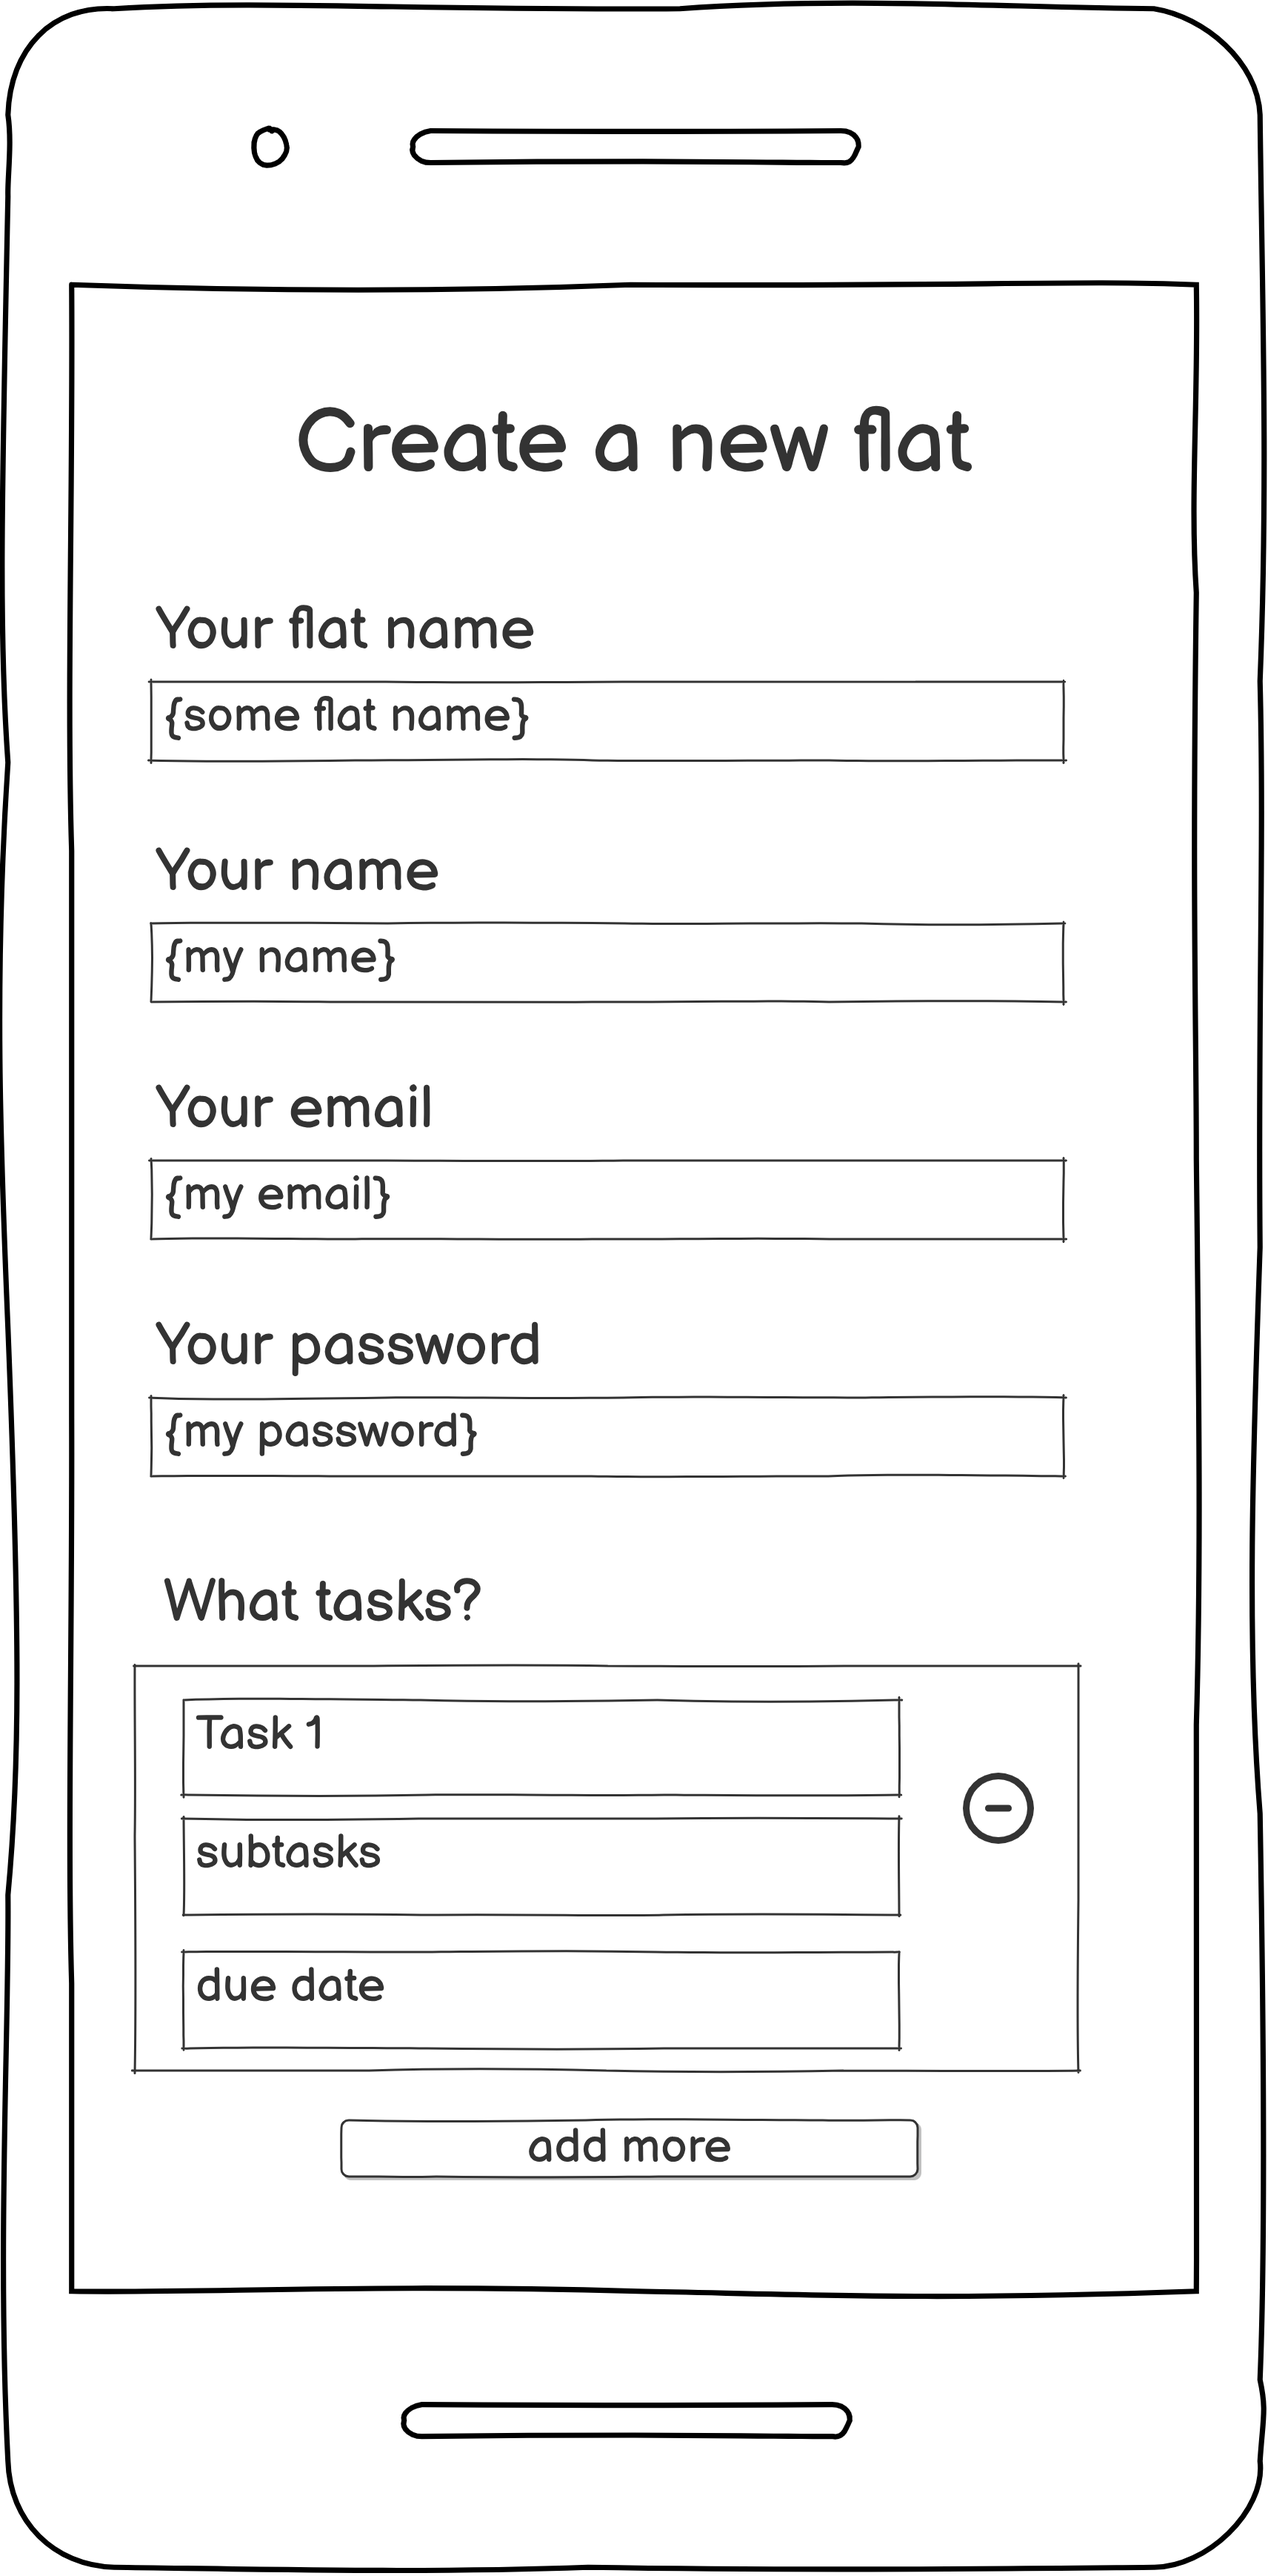
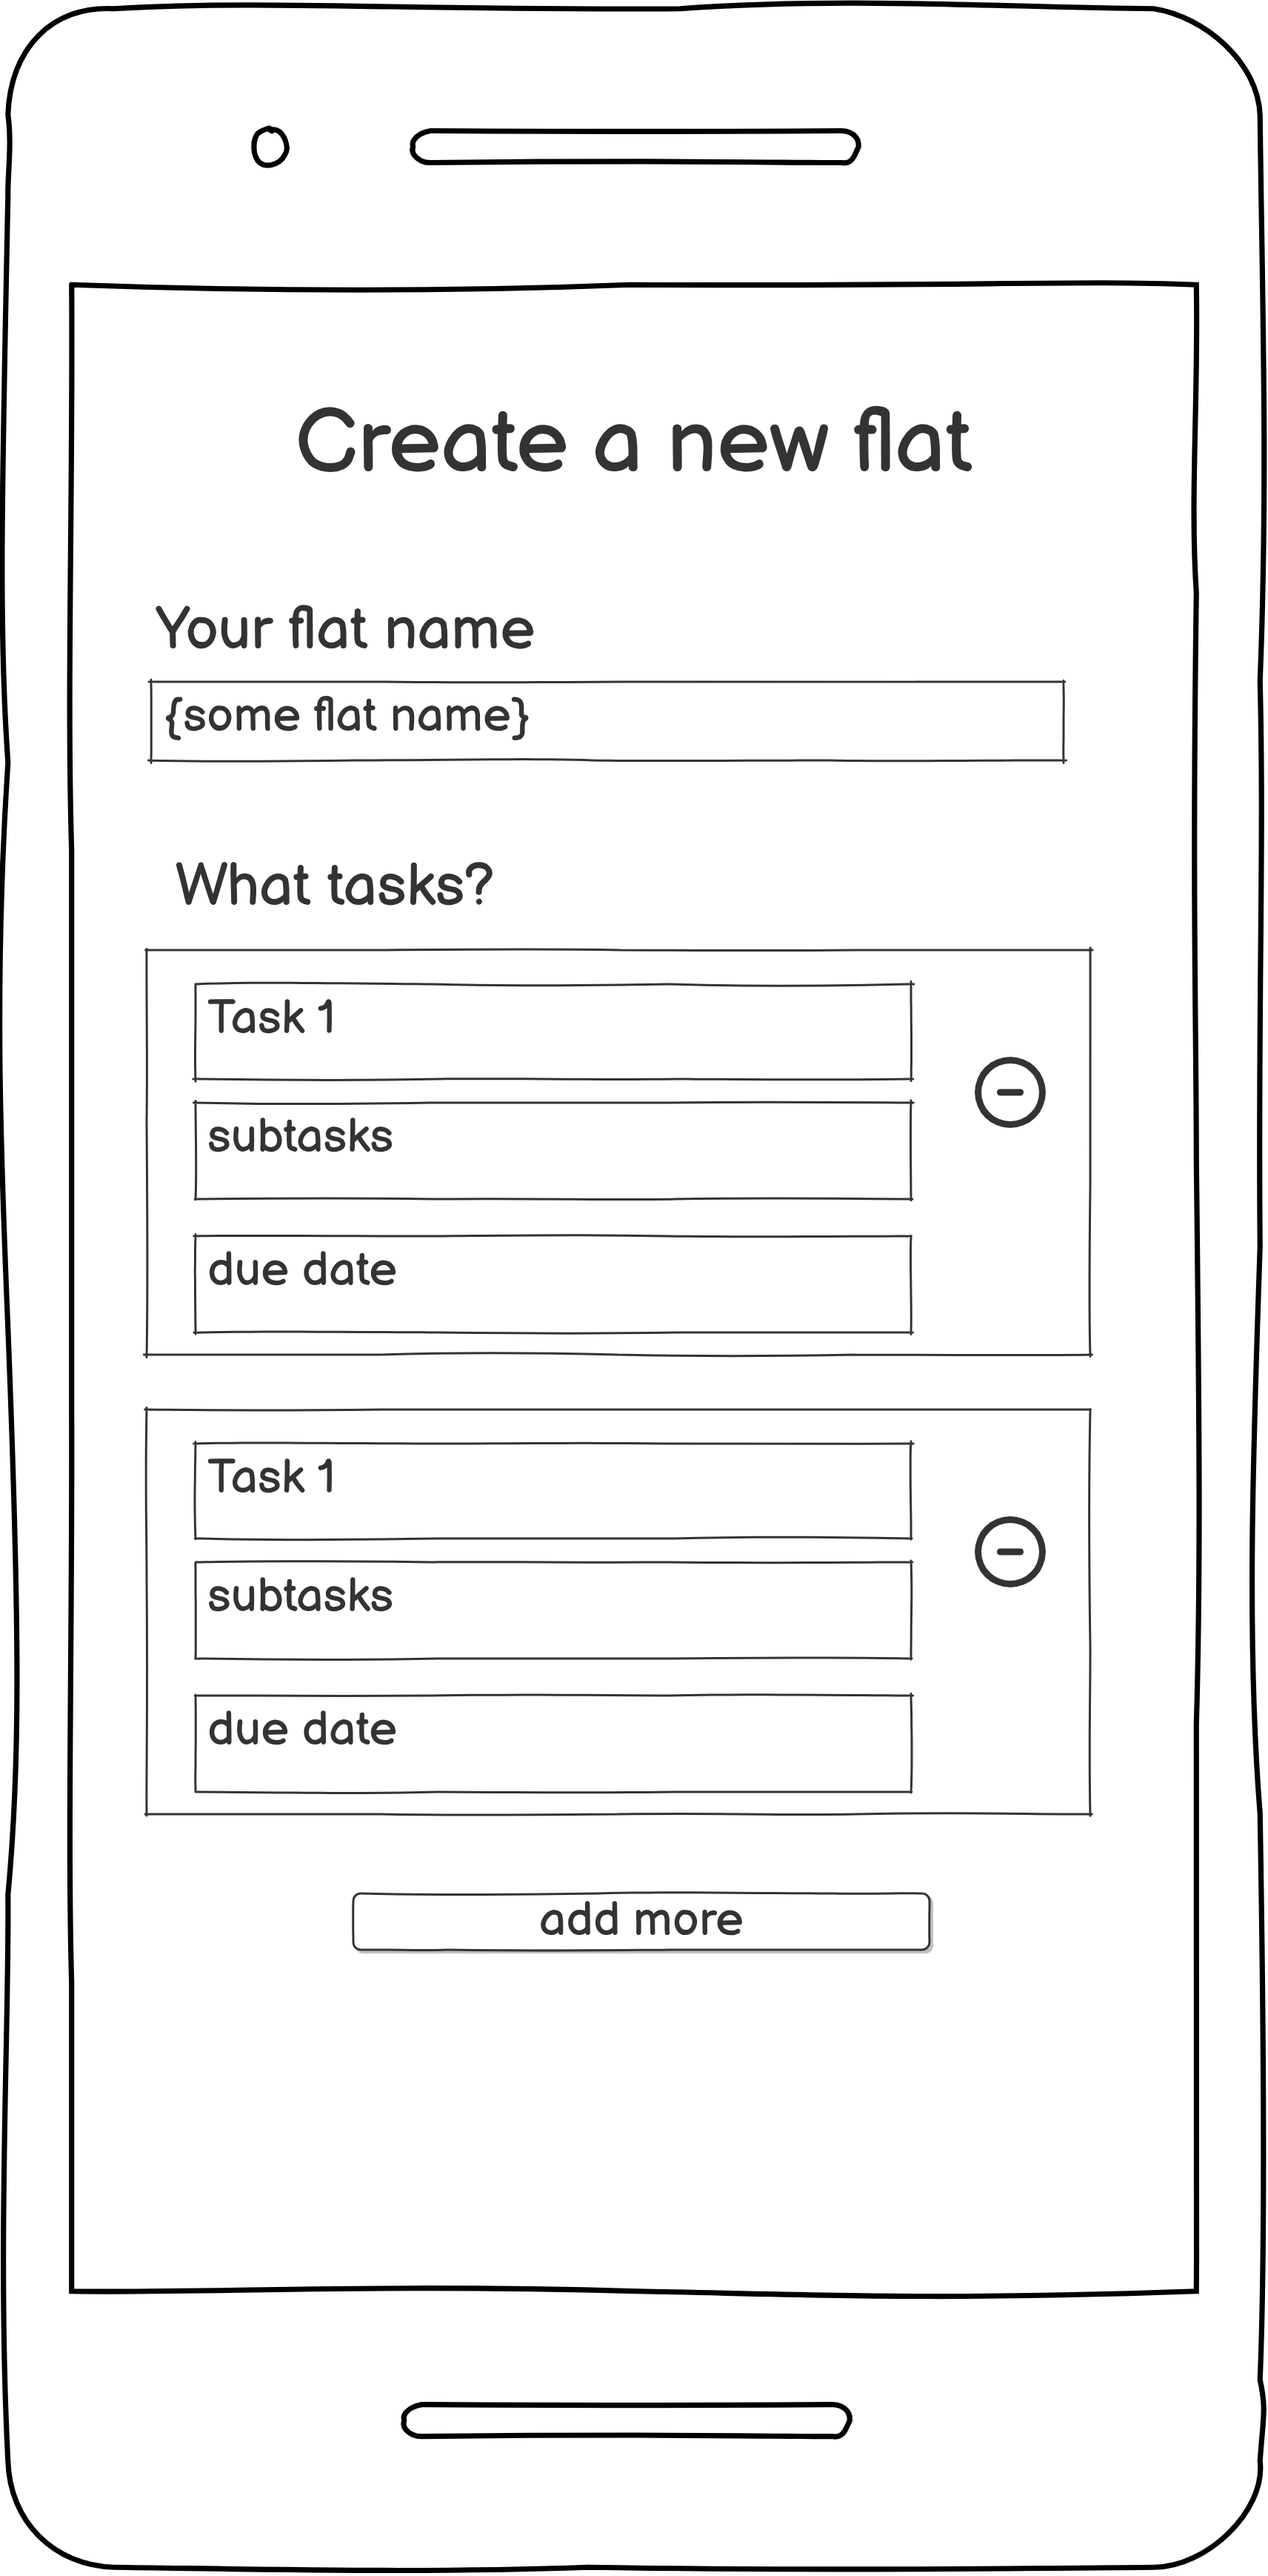
ui changes into md.

diff --git a/CLAUDE.md b/CLAUDE.md
@@ -206,25 +206,19 @@ Simple, only has two big buttons to select from. Only enters the page when the a
 
 Join a flat page shows information that the user needs to provide to access a flat. Specifically:
 - Flat code shared by a member of flat
-- Your name
-- Your email
-- Your Password
 
 ### Create a new flat
 <img src="./wireframes/create_flat.png" width="300px">
 
 Page when you are creating a new flat. Going back goes to the entry page.
 - Flat name
-- your name
-- your email
-- password
-- list of tasks in the flat. The red minus button enables removal of said task.
+- list of tasks in the flat. The red minus button enables removal of said task. We can add name, subtasks, and due date
 - Below is a button "add more" that adds an empty entry with placeholders 
   
 ### Flat Settings
 <img src="./wireframes/settings.png" width="300px">
 
-The list of members + "Generate & copy invite code" is available to all members of the flat, but only admin can press-hold on any member to go into remove move which means the members turn red and have a trashcan icon on the right of each of them. Exit this mode by pressing anywhere outside of the members. Clicking while on remove shows a confirmation window. Also, all settings below the button is only admin-read and writeable. Add a "admin" keyword next to the admin name.
+The list of members + "Generate & copy invite code" is available to all members of the flat, but only admin can delete members and access all the settings below. Press-hold on any member to go into remove mode which makes the buttons turn red and have a trashcan icon on the right of each of them.As mentioned, not possible if not admin. Exit this mode by pressing anywhere outside of the members. Clicking while on remove shows a confirmation window. Also, all settings below the button is only admin-read and writeable. Add a "admin" keyword next to the admin name.
 
 ### Default Flat page (Tasks page)
 <img src="./wireframes/tasks.png" width="300px">
